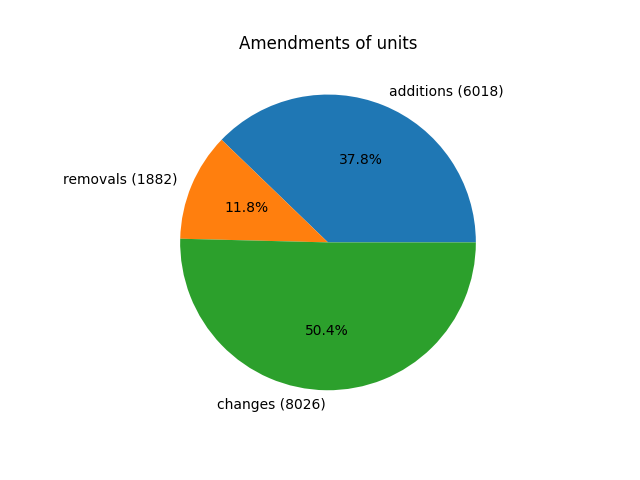
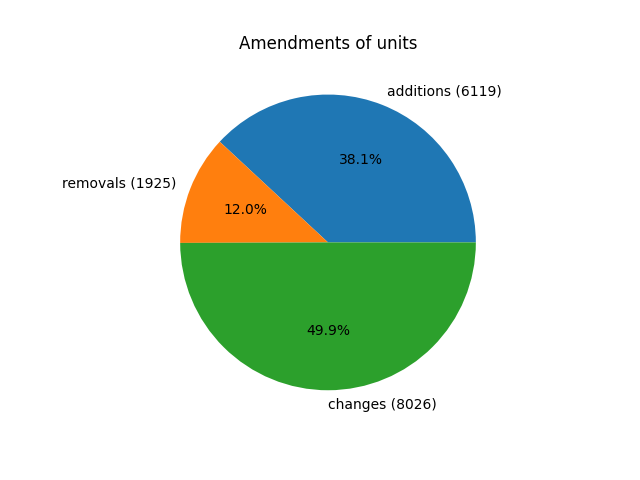
[1] add one more unit

diff --git a/1_regex/by_phrase_counter_main.py b/1_regex/by_phrase_counter_main.py
@@ -86,7 +86,7 @@ def main():
         Unit('wyraz', ['wyraz', 'wyrazy']),
         Unit('zdanie', ['zdanie', 'zdania']),
     ]
-    countable_units = units[:4]
+    countable_units = units[:5]
     ctr = ByPhraseUnitCounter()
     adds = ctr.count_additions(acts())
     rems = ctr.count_removals(acts())

diff --git a/1_regex/README.md b/1_regex/README.md
@@ -12,7 +12,7 @@ changes regex: `([\w§]+)\.*[\s]+\d+[\s]+otrzymuje brzmienie`
 ![Types of removals](./img/phrase_counter/by_unit_removals.png)
 ![Types of changes](./img/phrase_counter/by_unit_changes.png)
 
-As a "unit" on the next two graphs we treat: ustęp, paragraf, artykuł, punkt.
+As a "unit" on the next two graphs we treat: ustęp, paragraf, artykuł, punkt, litera.
 
 Amendments of units total:
 
